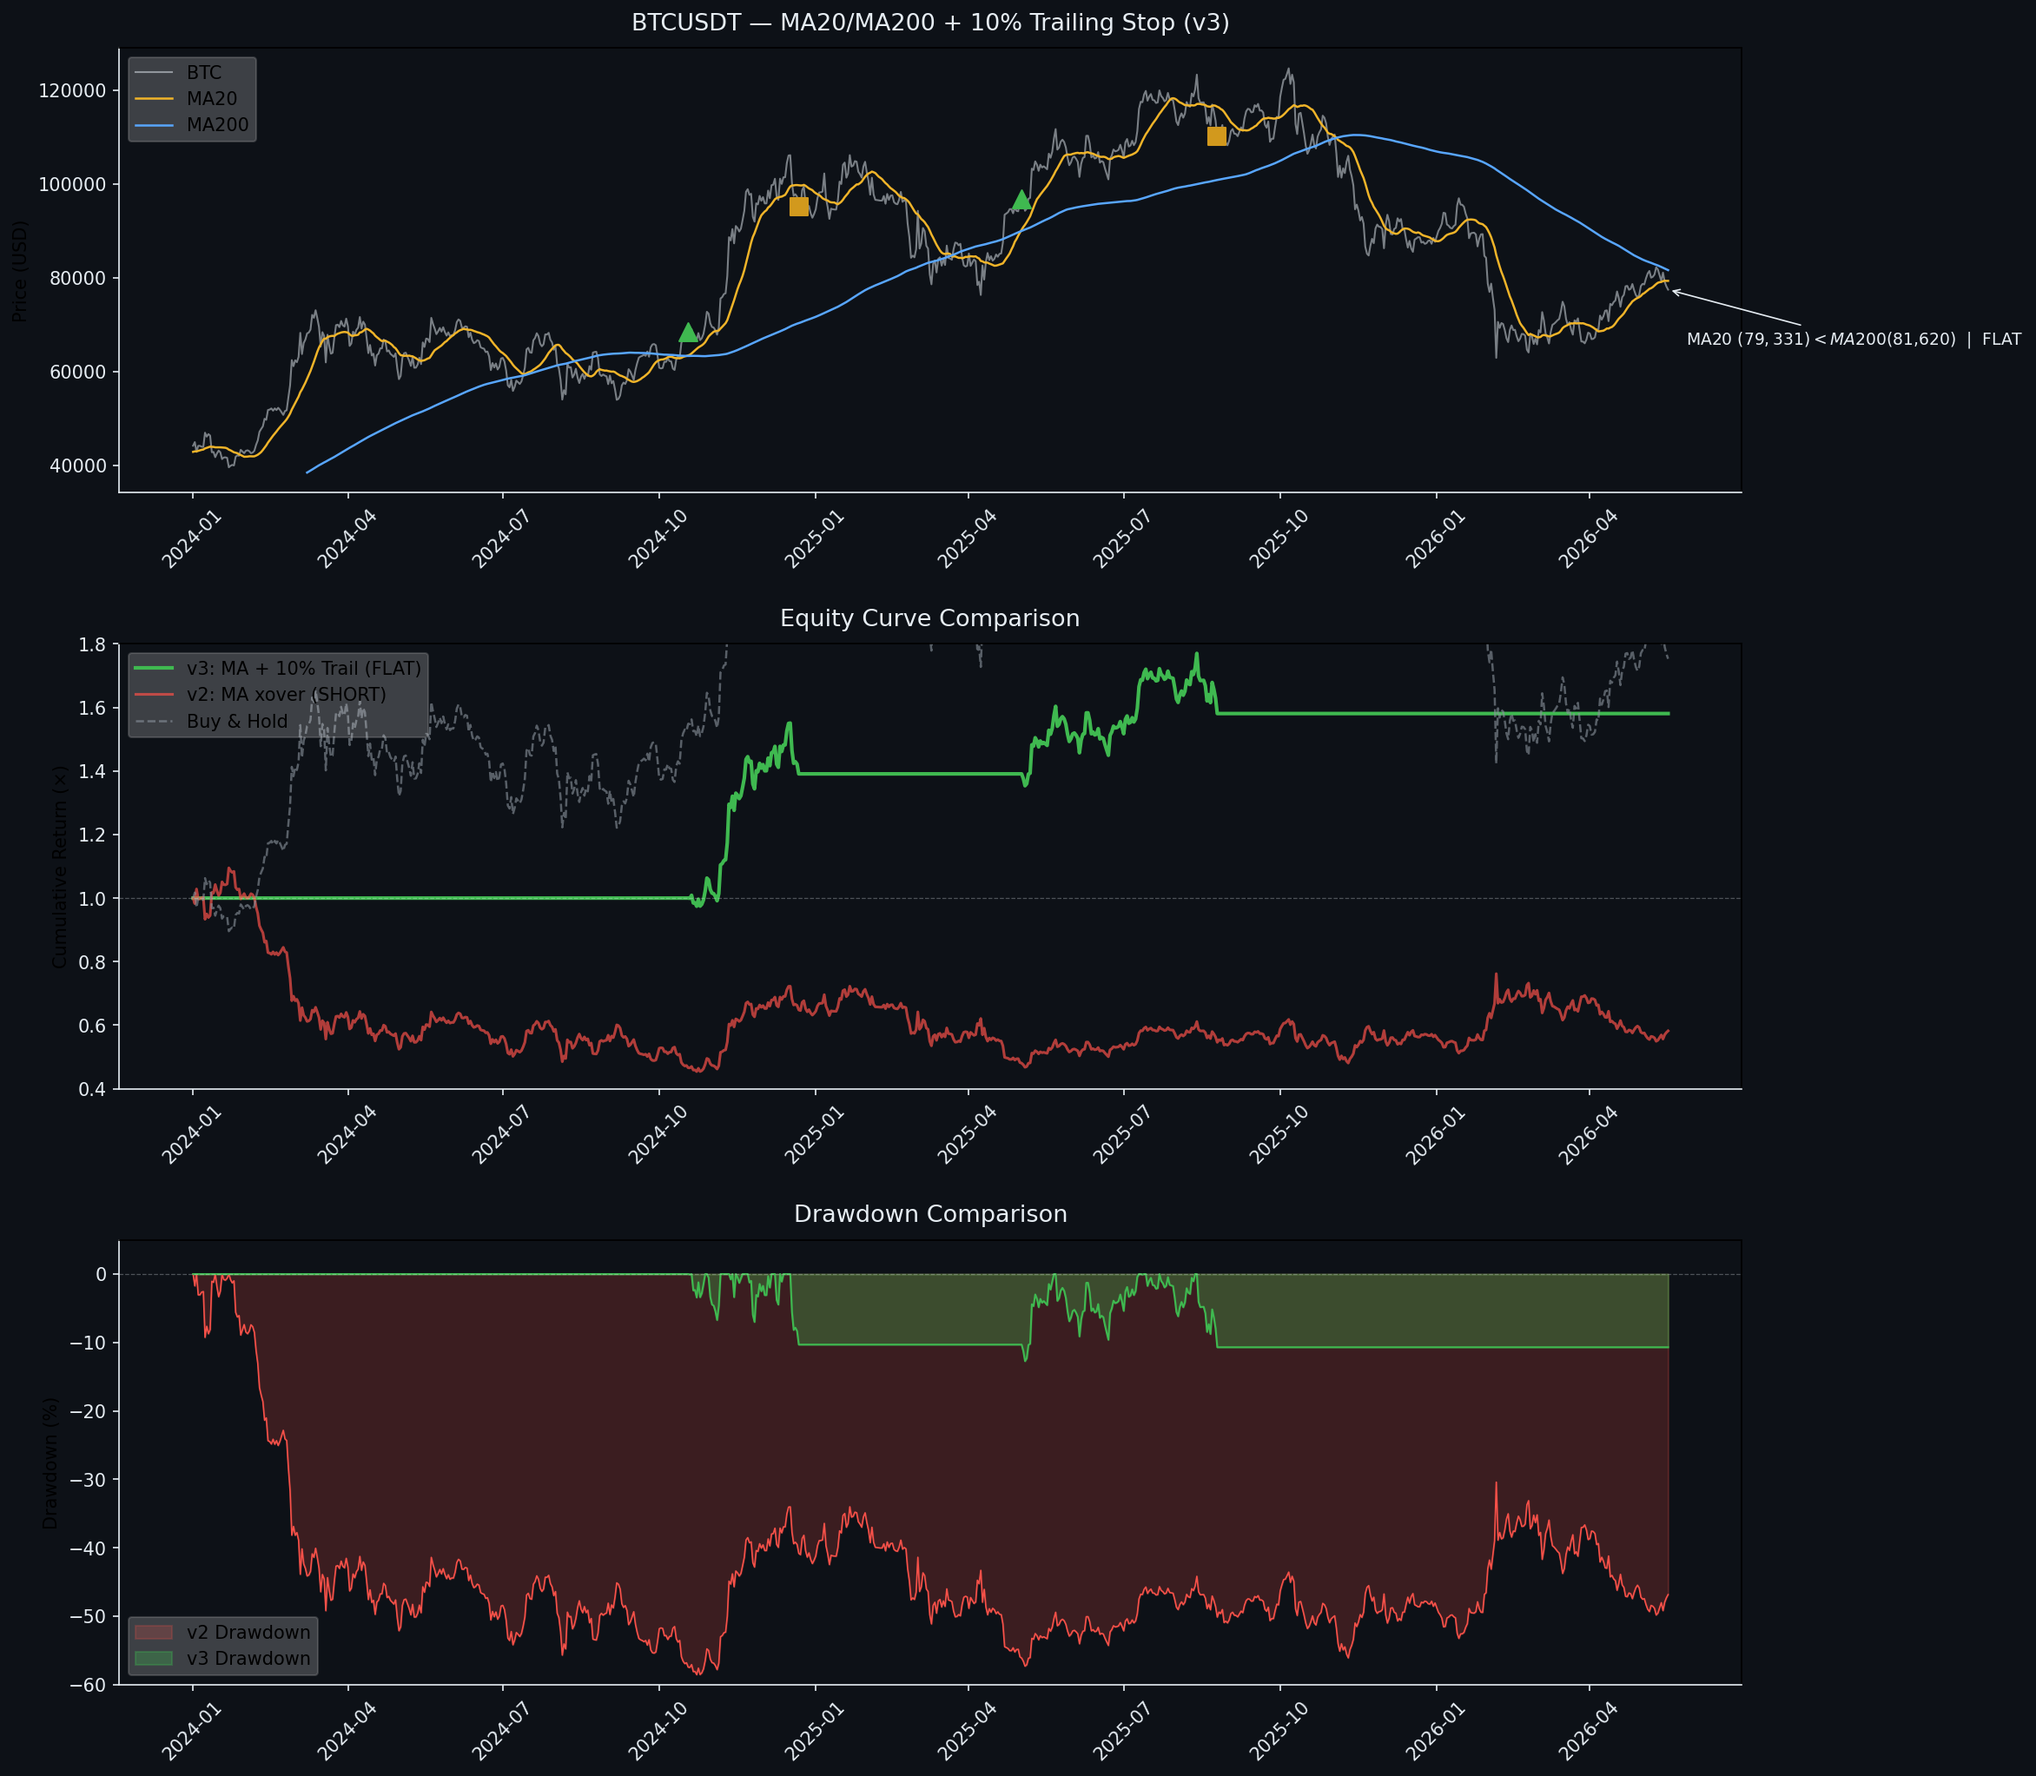
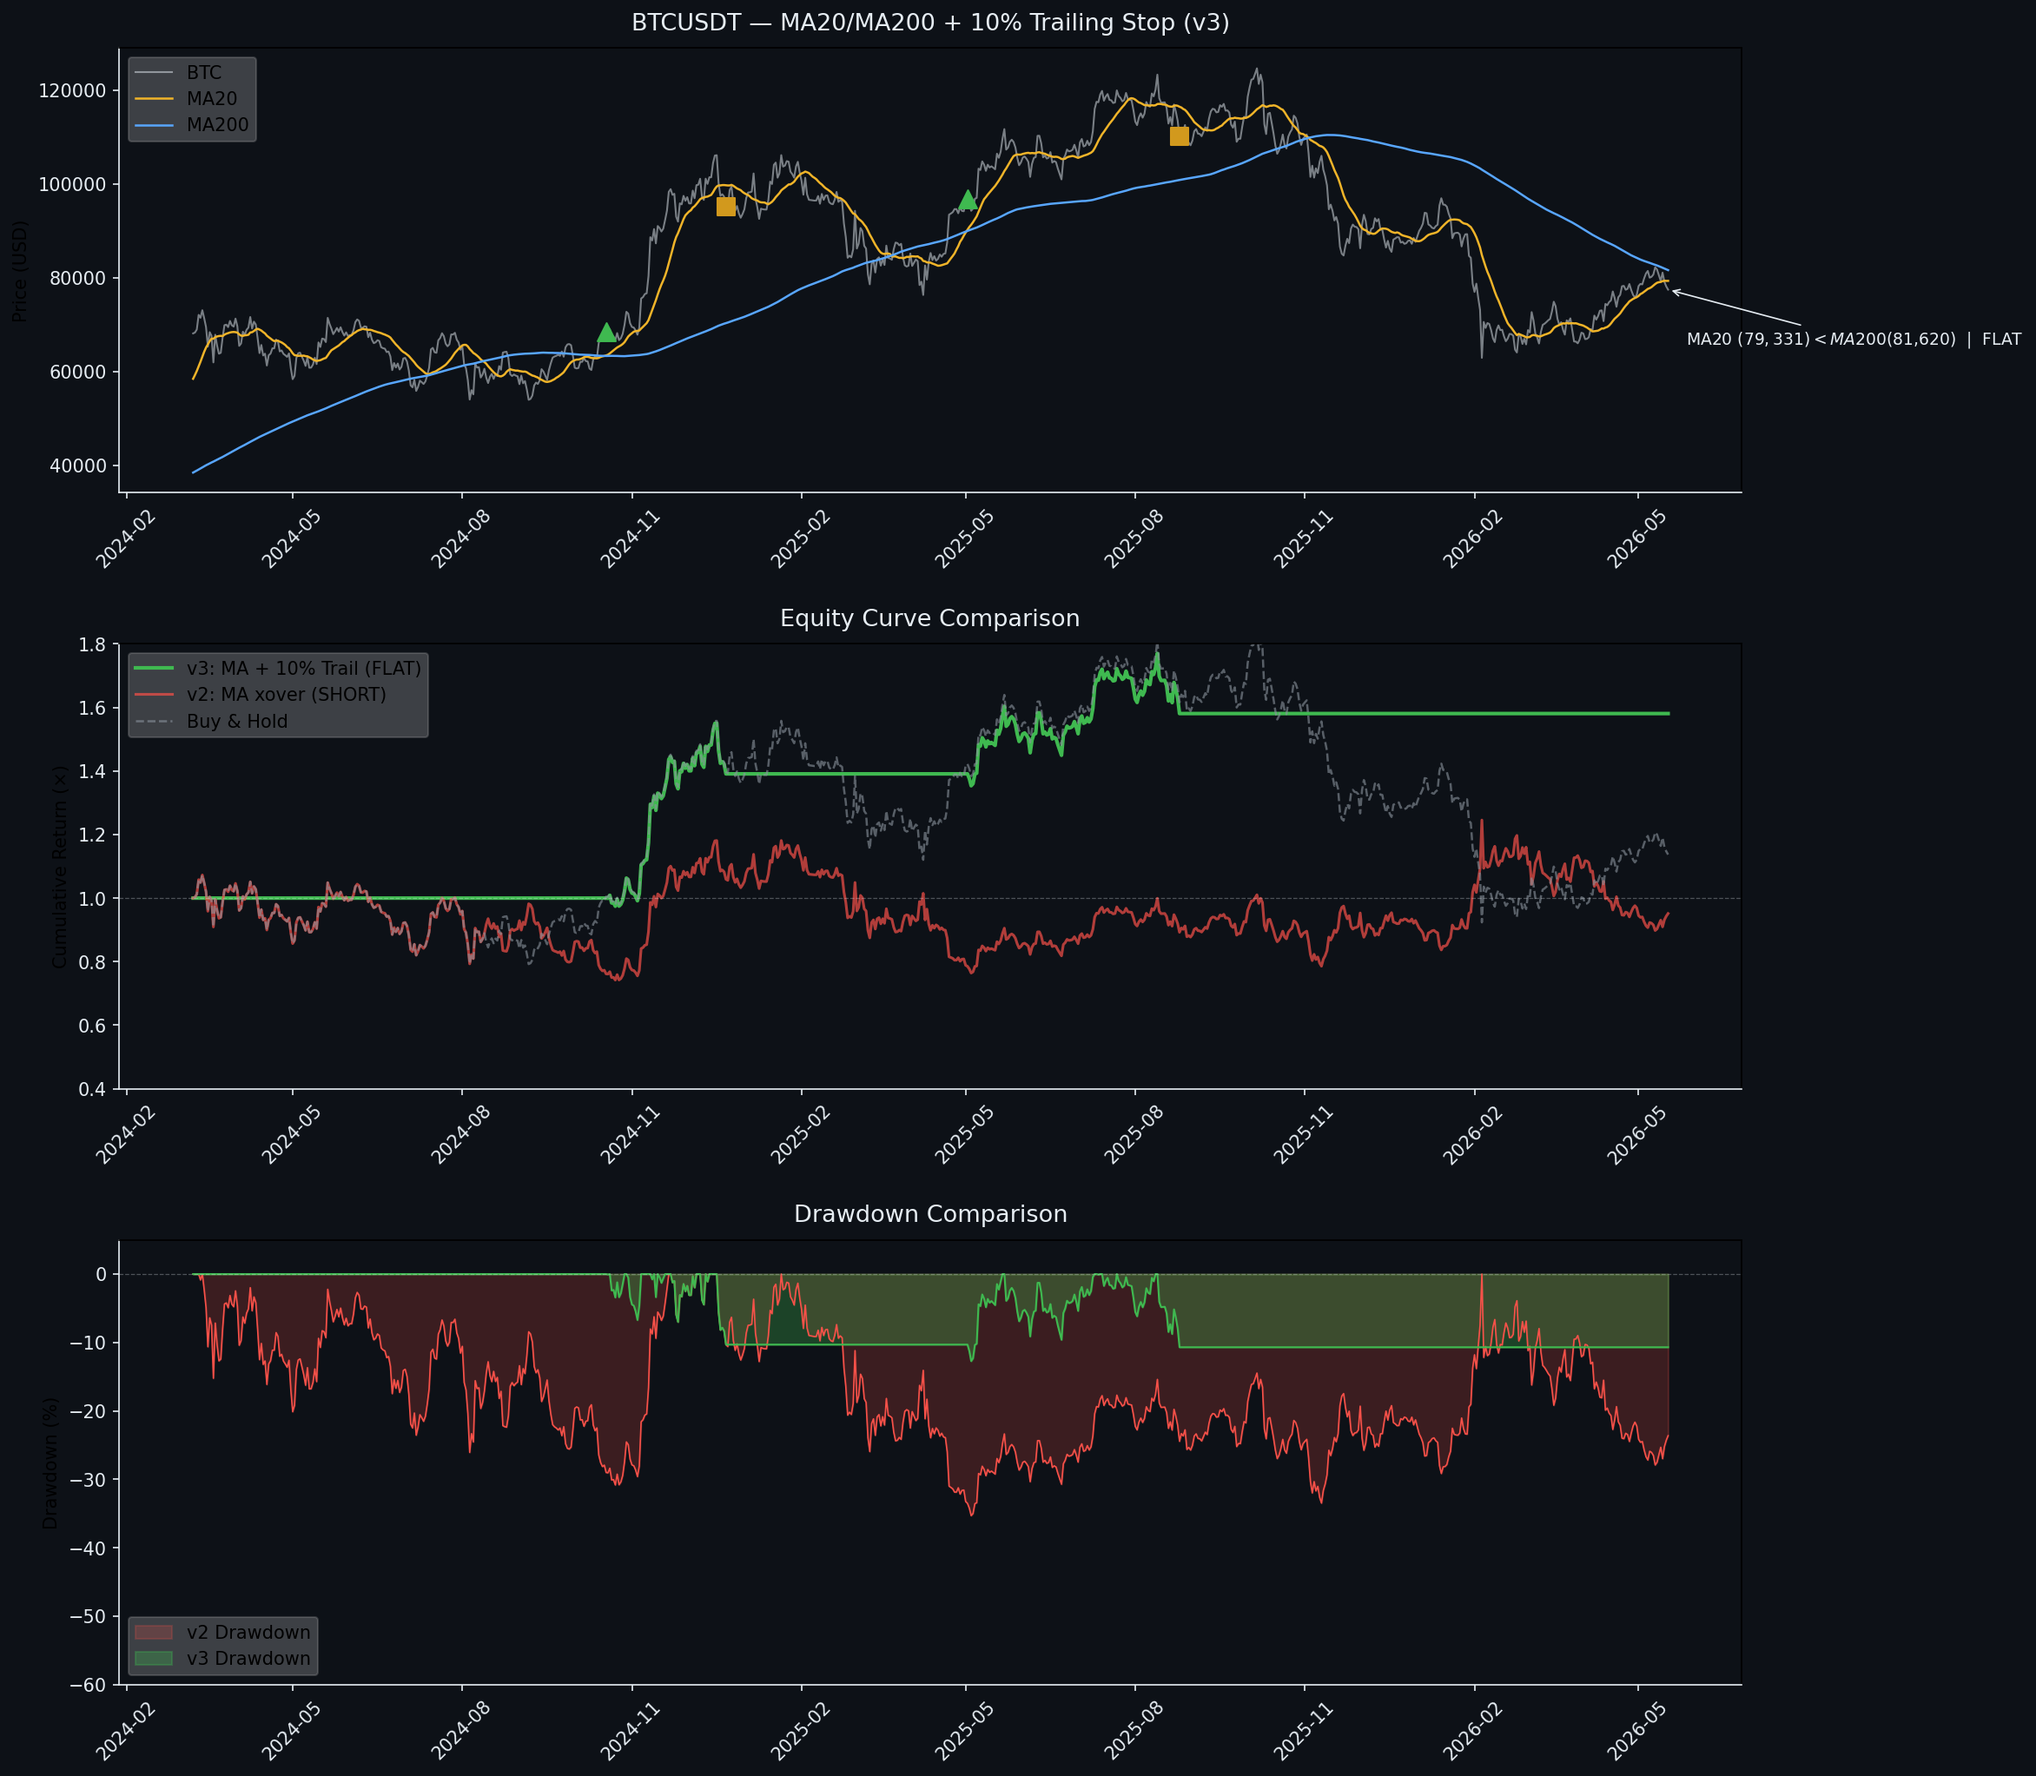
fix: filter NaN MA200 before v2 comparison (was shorting pre-MA200 ETF rally)

diff --git a/run_backtest_v3.py b/run_backtest_v3.py
@@ -85,6 +85,9 @@ BACKTEST_START = "2024-01-01"
 start_idx = df[df["dt"] >= pd.to_datetime(BACKTEST_START)].index[0]
 
 btc_only = df.iloc[start_idx:].copy().reset_index(drop=True)
+
+# Filter to where MA200 is valid — same as original v2 logic
+btc_only = btc_only[btc_only["ma200"].notna()].copy().reset_index(drop=True)
 btc_only["signal"] = (btc_only["ma20"] > btc_only["ma200"]).astype(int)
 btc_only["position"] = btc_only["signal"].replace(0, -1)  # 1=long, -1=short
 btc_only["daily_return"] = btc_only["close"].pct_change().fillna(0)
